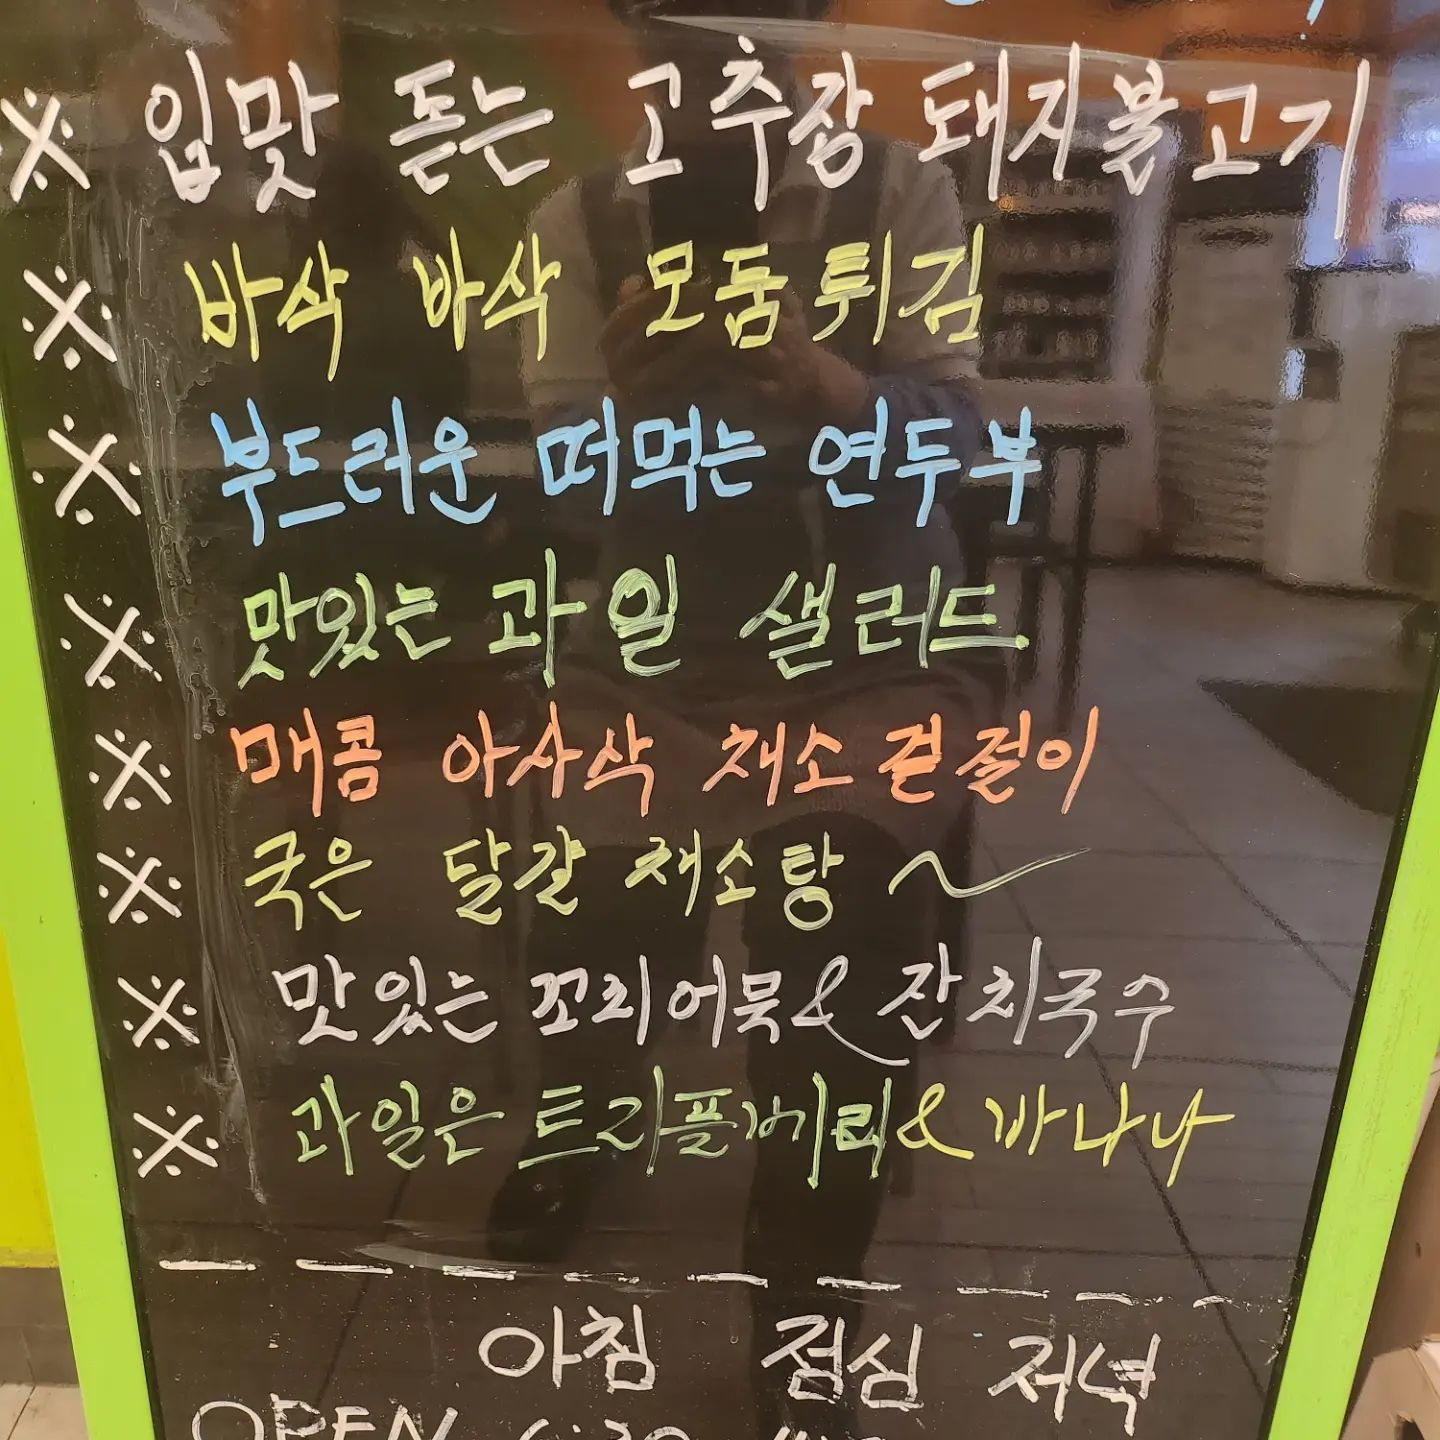
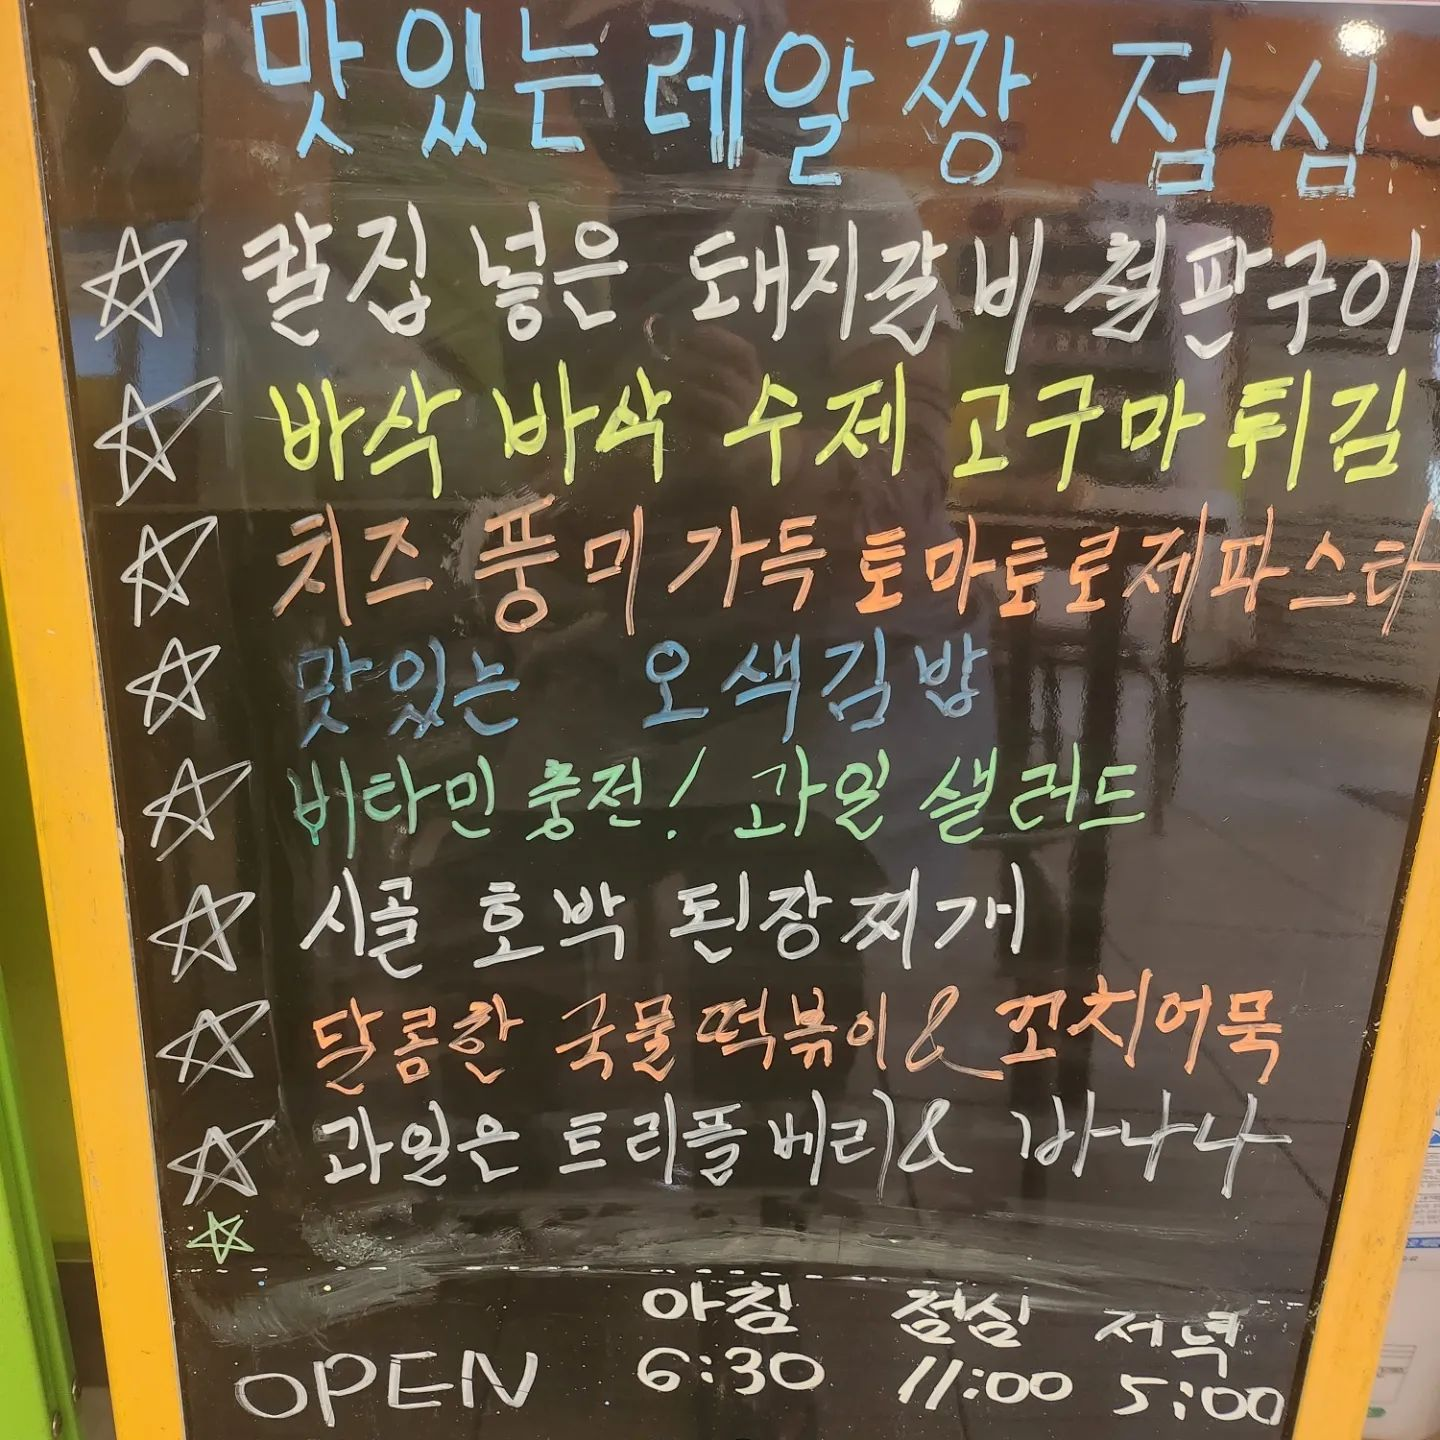
auto push

diff --git a/server/real_1_todaymenu.html b/server/real_1_todaymenu.html
@@ -1,1 +1,1 @@
-<h1 class="_aacl _aaco _aacu _aacx _aad7 _aade">3월 9일 목요일 레알짱 본점 저녁메뉴입니다. <br><br>- 고추장 돼지 불백<br>- 고기 &amp; 김치 손만두찜<br>- 김치볶음<br>- 온두부<br>- 오징어젓갈<br>- 배추된장국<br>- 과일: 사과<br>- 갓 구운 베이커리 입니다. <br><br>^^ 👍</h1>
+<h1 class="_aacl _aaco _aacu _aacx _aad7 _aade">3월&nbsp;10일 금요일 레알짱 본점 점심메뉴입니다. <br><br>- 슬라이드 보쌈 🍖 <br>- 치킨너겟&amp;허니머스타드 ❤<br>- 모듬버섯 영양밥 👍<br>- 신선한 쌈채소 &amp; 쌈장<br>- 매콤 콩나물 대파무침<br>- 국 : 얼큰 소고기 무국<br>- 과일 : 바나나 🍌 <br>- 갓 구운 베이커리 입니다. 🥖🥯🍞<br><br>^^👍 </h1>

diff --git a/server/realtodaymenu.html b/server/realtodaymenu.html
@@ -1,1 +1,1 @@
-<h1 class="_aacl _aaco _aacu _aacx _aad7 _aade">3월 9일 목요일<br>저녁메뉴 <br>- 고추장 돼지불고가<br>- 모둠튀김<br>- 떠먹는 연두부<br>- 과일 샐러드<br>- 채소 겉절이<br>- 달걀 채소탕<br>- 트리플베리&amp;바나나<br> 등</h1>
+<h1 class="_aacl _aaco _aacu _aacx _aad7 _aade">3월 10일 금요일<br>점심메뉴 <br>- 돼지갈비철판구이<br>- 수제고구마튀김<br>- 토마토로제파스타<br>- 김밥<br>- 과일샐러드<br>- 호박된장찌개<br>- 트리플베리&amp;바나나<br> 등</h1>
